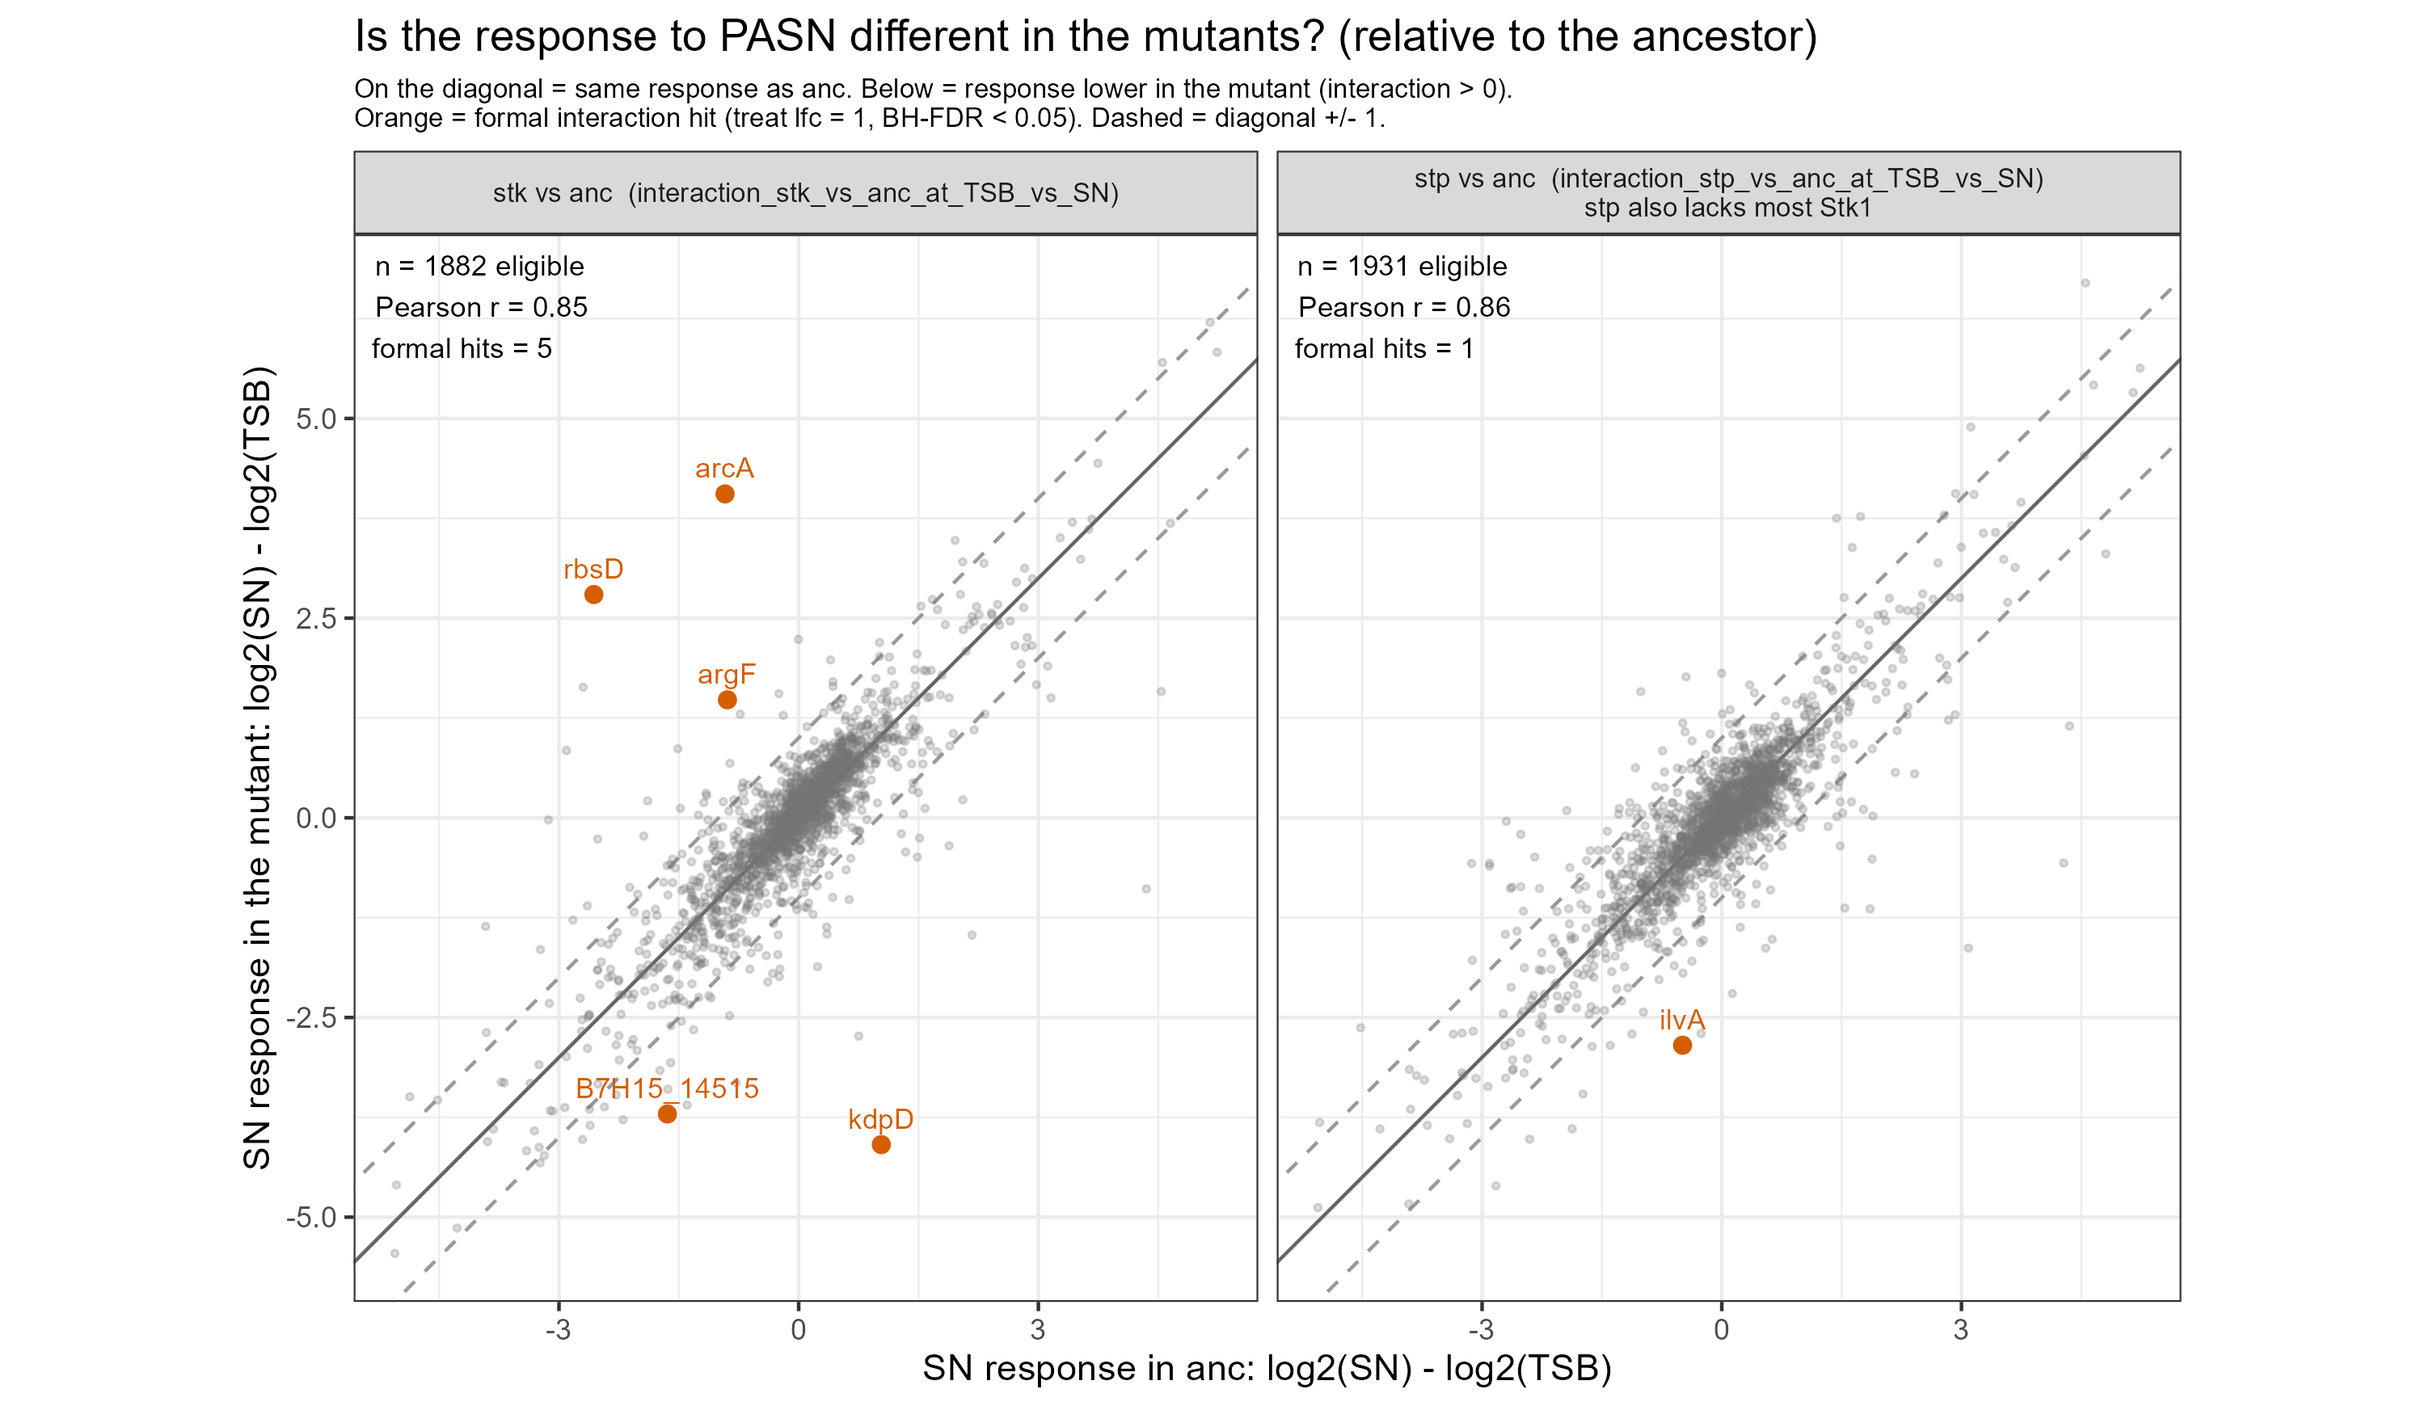
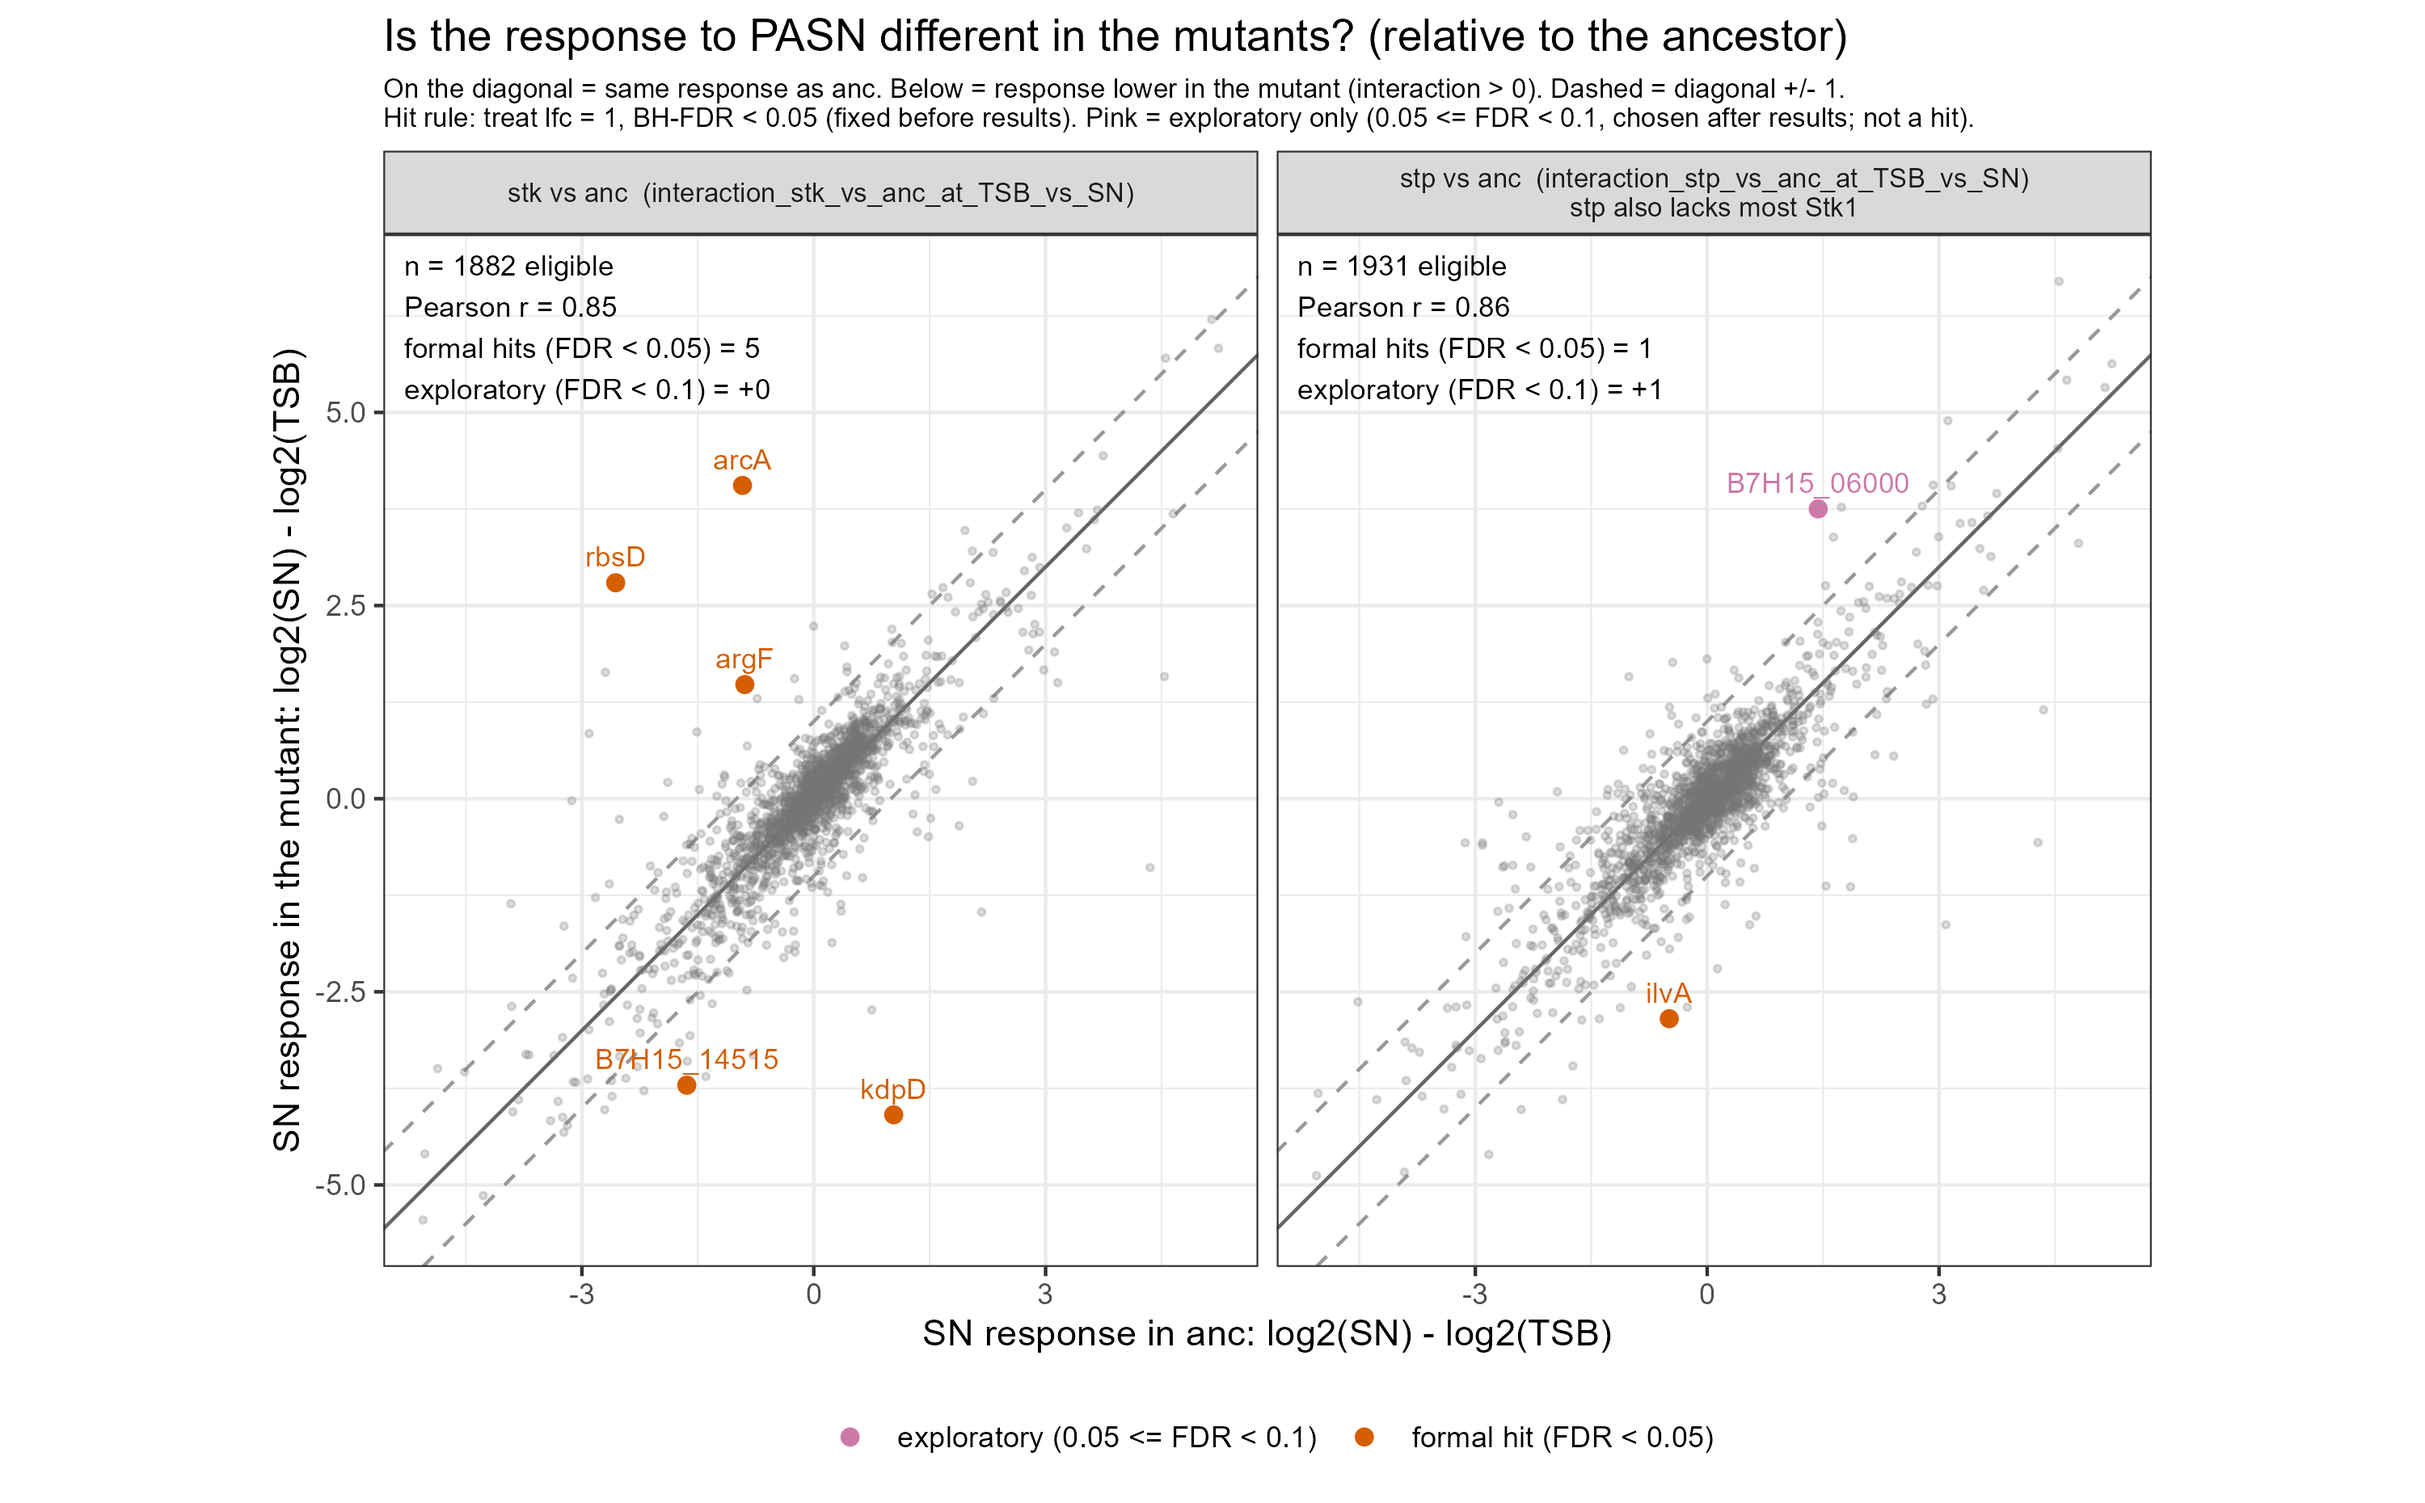
feat: step 6 exploratory FDR < 0.1 layer in Fig 2 (not hits) and stp-vs-stk response figure

diff --git a/mval_medi/results/step06_responses/figure_guide_mval.md b/mval_medi/results/step06_responses/figure_guide_mval.md
@@ -22,12 +22,37 @@ Every `stp` result: that strain also lacks most of Stk1 (Step 3).
 - **How to read:** one point = one protein. On the solid diagonal = same response
   as `anc`; dashed = diagonal ± 1 log2. Below the diagonal = response lower in the
   mutant (interaction > 0). Orange = formal interaction hit (treat lfc = 1,
-  BH-FDR < 0.05). The box gives n eligible, Pearson r and the hit count.
+  BH-FDR < 0.05). **Pink = exploratory only** (0.05 ≤ FDR < 0.1, see below). The box
+  gives n eligible, Pearson r, the hit count and the extra exploratory count.
 - **Result:** r = 0.85 (`stk`) and 0.86 (`stp`): most of the PASN response is
-  shared with `anc`. Formal hits: 5 in `stk`, 1 in `stp`.
+  shared with `anc`. Formal hits: 5 in `stk`, 1 in `stp`. Exploratory: +0 in `stk`,
+  +1 in `stp` (`B7H15_06000`, fibrinogen-binding protein).
 - **Caveat:** r is descriptive (no CI here); both axes contain noise, so r is lower
   than the true similarity. A point outside the dashed lines but grey is NOT evidence
   of a difference > 1 (the interaction SE is large, median 0.17).
+- **About the pink layer (added 13 Nov on request):** our hit rule stays BH-FDR < 0.05,
+  fixed on 12 Nov before results (rules section 5). FDR < 0.1 was chosen *after*
+  seeing the results, so the pink proteins are **not hits**. They are not counted in
+  any hit number and should be called "exploratory" on the poster. For `B7H15_06000`
+  the raw values (`fig_candidates_raw_mval.png`) show that `stp` is low in TSB and
+  normal in SN, i.e. mainly a TSB baseline difference.
+
+### `fig_response_stk_vs_stp_mval.png`: stp response vs stk response (direct comparison)
+- **Compares:** for each protein eligible in the direct comparison (1,876), the SN
+  response in `stp` (y) against the SN response in `stk` (x). This is
+  `interaction_stp_vs_stk_at_TSB_vs_SN` = response_stk − response_stp (checked for
+  all 1,876 rows).
+- **How to read:** same as Fig 2, but now the reference is `stk`, not `anc`. On the
+  diagonal = both mutants react the same. Below = response lower in `stp` than in
+  `stk` (interaction > 0); above = higher in `stp`. Orange = formal hit
+  (FDR < 0.05); pink = exploratory (0.05 ≤ FDR < 0.1, not a hit).
+- **Result:** r = 0.84: the two mutants mostly react the same way. 4 formal hits:
+  `B7H15_06000` (above: rises more in `stp`), lipA, arcA, argF (below: lower response
+  in `stp`). Exploratory +1: `B7H15_14515`.
+- **Caveat:** no `anc` here, so this r has no shared-reference problem, but it still
+  says only how similar the *responses* are; whether each mutant differs from `anc`
+  is in Fig 2. Several hits are mainly TSB baseline differences (see the raw plots).
+  The `stp` strain also lacks most Stk1. This figure belongs thematically to H3 (Step 7).
 
 ### `fig_effect_distributions_mval.png`: effect sizes, reference vs interactions
 - **Compares:** the distribution of `TSB_vs_SN_at_anc` (the ancestor's own response)

diff --git a/mval_medi/project_outlines/PROJECT_WORKFLOW_mval.md b/mval_medi/project_outlines/PROJECT_WORKFLOW_mval.md
@@ -168,6 +168,7 @@ For example, the stp-versus-parent interaction is `(stp_TSB - stp_SN) - (anc_TSB
 - [x] Plot per-sample values for representative candidates before interpreting them. Use consistent axes and explain the response difference in words.
 - [x] Keep a separate exploratory summary of one-sided detection patterns; do not rank large imputed fold changes as precise quantitative effects.
   *Done 13 Nov:* `scripts/06_altered_responses_mval.R`, results + figure guide in `mval_medi/results/step06_responses/`. Eligible: 1,882 (`stk`) / 1,931 (`stp`). Formal interaction hits: **5 in `stk`** (kdpD, argF, arcA, rbsD, B7H15_14515) and **1 in `stp`** (ilvA); supplied screen 96 / 90. Mutant and `anc` responses correlate (r = 0.85 / 0.86): most of the PASN response is shared. Raw plots: argF and B7H15_14515 are mainly a TSB baseline difference in `stk` that disappears in SN; arcA and kdpD differ from `anc` in both media with opposite sign; only rbsD is mainly an SN-response difference. ilvA also drops in `stk_SN` (1/3 detected, so not testable in our model); the supplied `lm_impute` estimate for `stk` is 3.01 (FDR 0.001), the same direction as in `stp`, so this is probably a shared mutant pattern resting on one `stk` replicate. Candidate plots use one panel per protein with its own y-scale (abundance levels differ); x layout is the same.
+  *Added 13 Nov (on request):* Fig 2 now also marks proteins with 0.05 ≤ FDR < 0.1 in pink as **exploratory only** (stk +0, stp +1: `B7H15_06000`). The hit rule stays BH-FDR < 0.05; 0.1 was chosen after results, so these are not hits. New separate figure `fig_response_stk_vs_stp_mval.png`: `stp` response vs `stk` response (direct interaction, r = 0.84, 4 formal hits + 1 exploratory `B7H15_14515`).
 
 **Why:** This establishes whether a mutation changes the exposure response beyond any pre-existing TSB difference.
 

diff --git a/mval_medi/notebook/2026-11-13_steps4b-7_responses_mval.md b/mval_medi/notebook/2026-11-13_steps4b-7_responses_mval.md
@@ -69,6 +69,15 @@ draft. It found the FP24 transposon folder in `data/raw/`. Gene symbols come fro
 `read_protein_metadata()` (ortholog_quality good), not from memory. No biological
 interpretation was made. **A group member still has to check every number above.**
 
+## Later the same day: exploratory FDR layer and stk-vs-stp figure
+- request: "change the FDR to 0.1 to get more hits" in Fig 2. Our rules fix the hit
+  rule at BH-FDR < 0.05 before results; FDR < 0.1 would add only 2 hits in total
+  (stp vs anc +1 `B7H15_06000`, stp vs stk +1 `B7H15_14515`, stk vs anc +0).
+- decision (group member, 13 Nov): keep FDR < 0.05 as the hit rule; show
+  0.05 ≤ FDR < 0.1 in pink as an **exploratory layer only**, labelled as chosen after results.
+- new separate figure `fig_response_stk_vs_stp_mval.png` (stp vs stk response, r = 0.84,
+  4 formal hits: `B7H15_06000`, lipA, arcA, argF; +1 exploratory).
+
 ## Next steps
 - group review of the branch / PR; agree on the H3 wording for the poster
   ("`stp` shares a moderate part of the `stk` pattern, r ≈ 0.37–0.38 after noise
